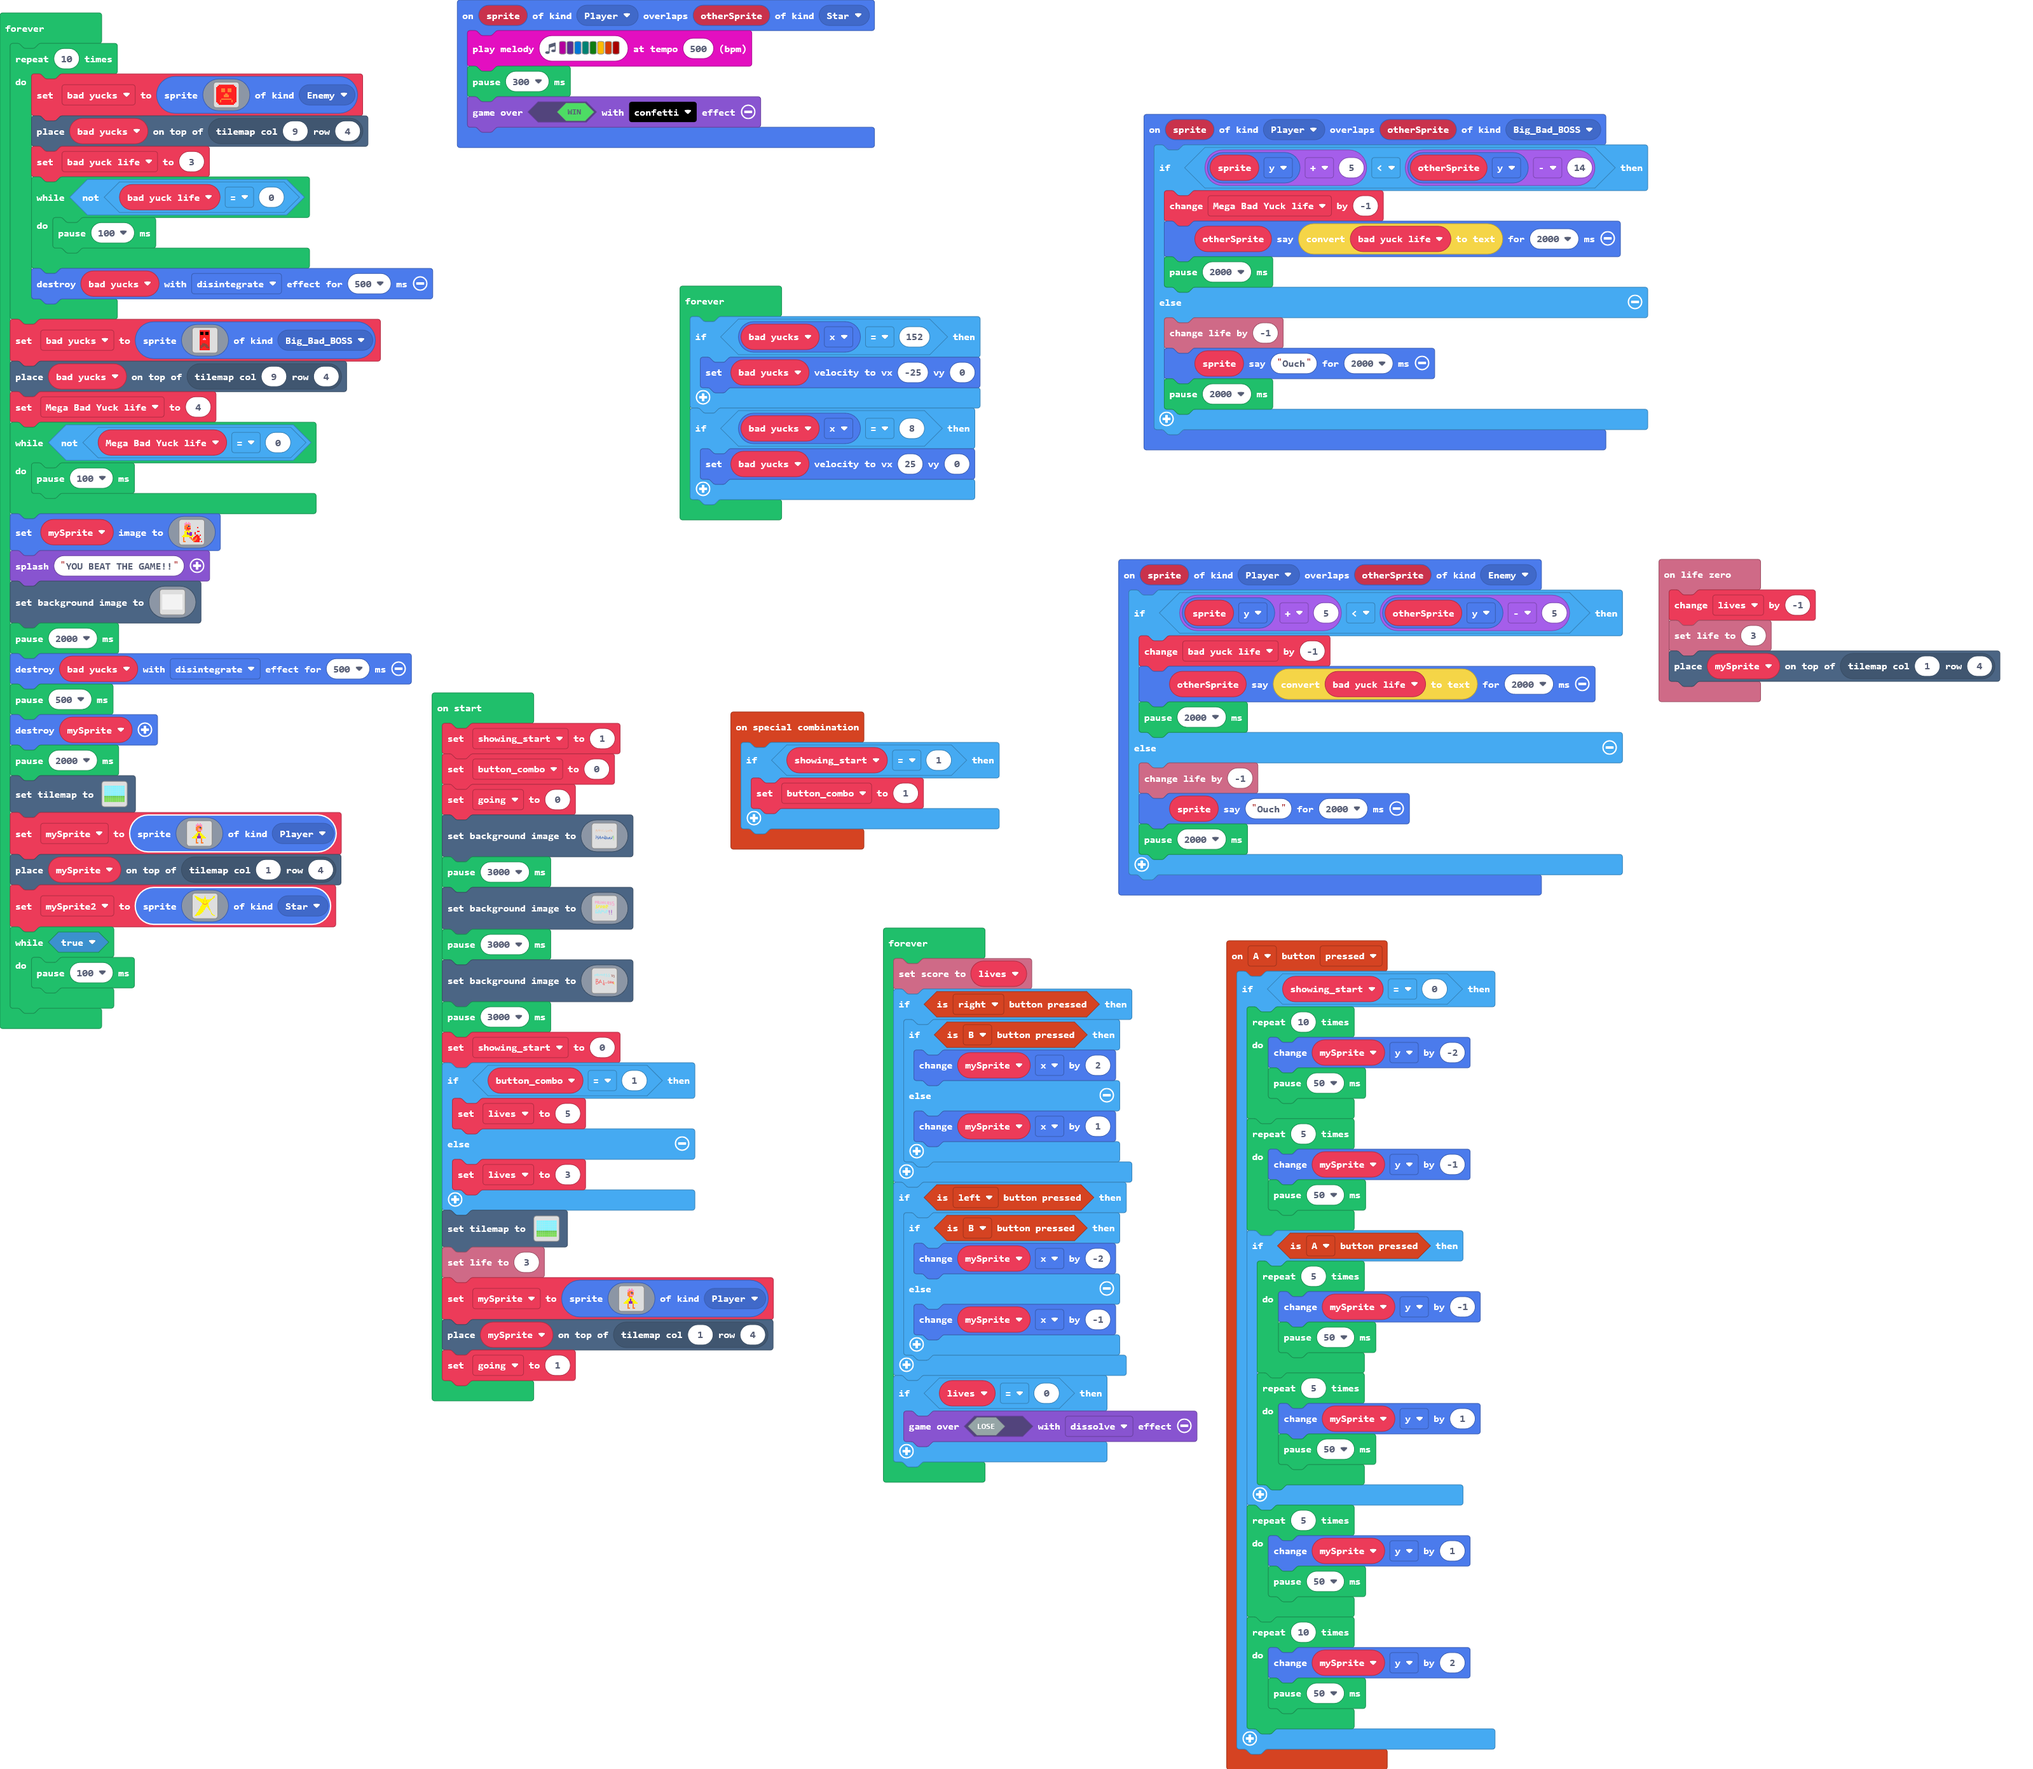
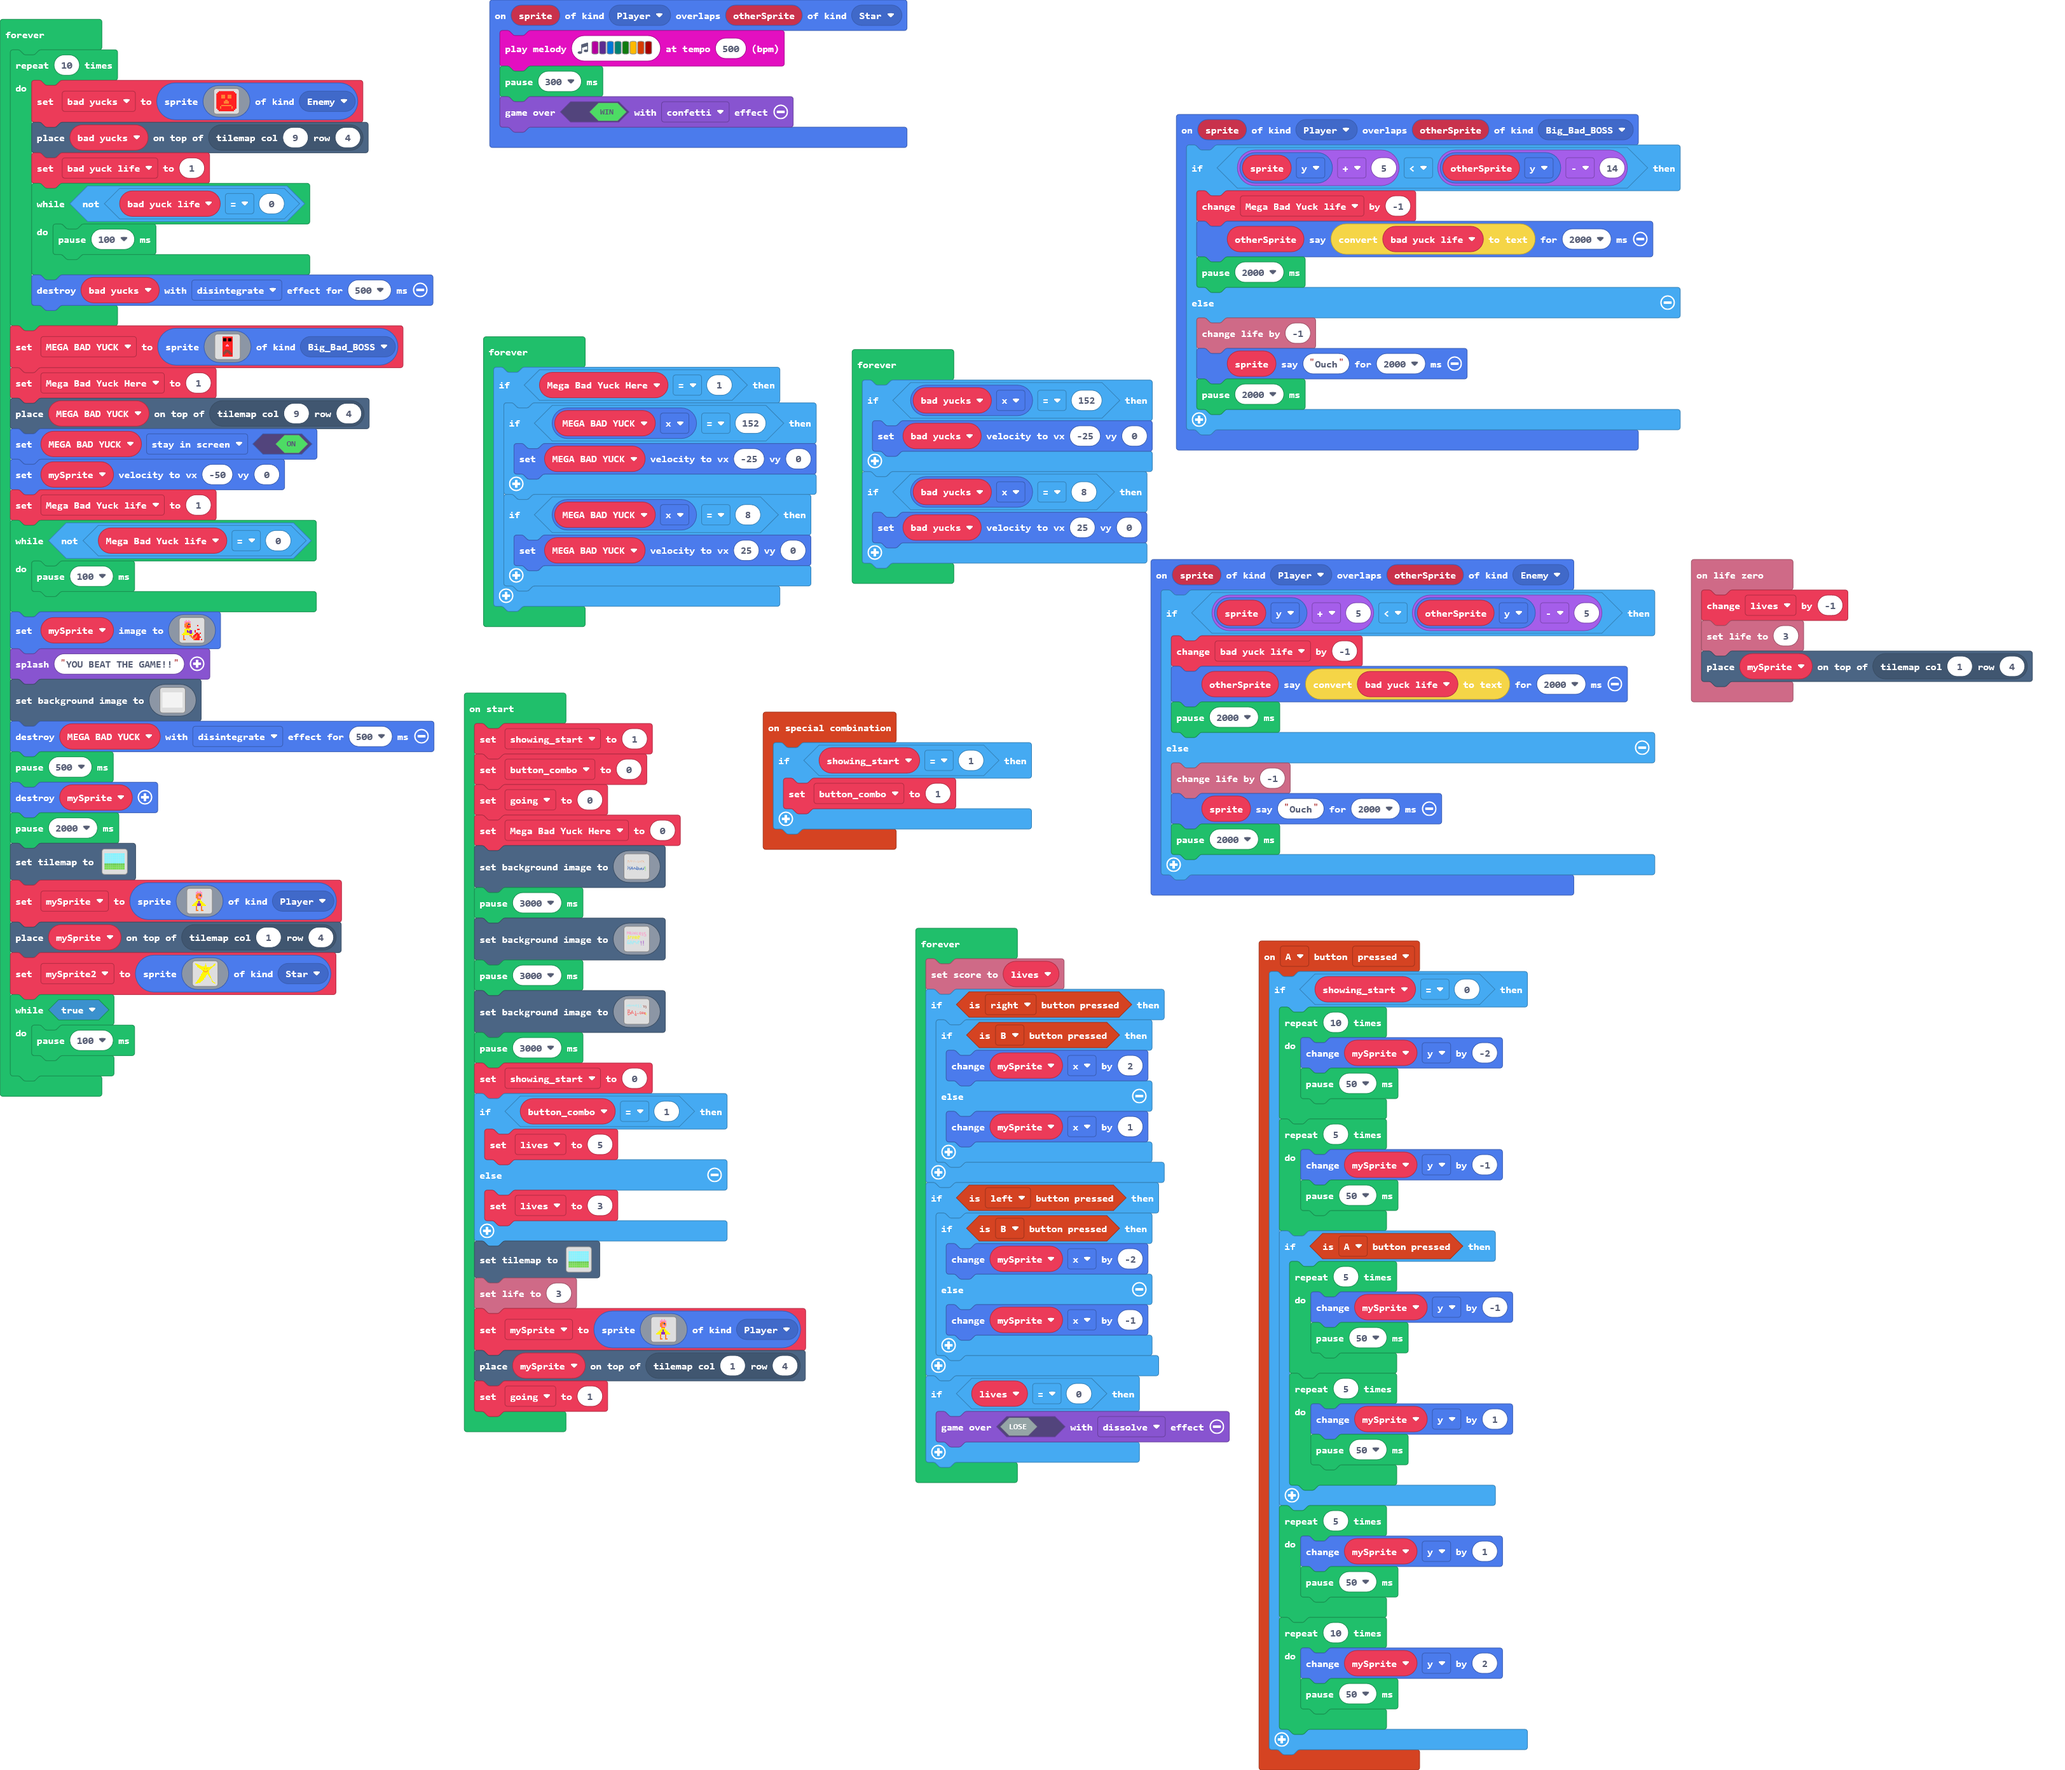
Update main.blocks, main.ts

diff --git a/main.ts b/main.ts
@@ -70,6 +70,7 @@ sprites.onOverlap(SpriteKind.Player, SpriteKind.Enemy, function (sprite, otherSp
     }
 })
 let mySprite2: Sprite = null
+let MEGA_BAD_YUCK: Sprite = null
 let bad_yucks: Sprite = null
 let bad_yuck_life = 0
 let Mega_Bad_Yuck_life = 0
@@ -80,6 +81,7 @@ let showing_start = 0
 showing_start = 1
 button_combo = 0
 let going = 0
+let Mega_Bad_Yuck_Here = 0
 scene.setBackgroundImage(img`
     . . . . . . . . . . . . . . . . . . . . . . . . . . . . . . . . . . . . . . . . . . . . . . . . . . . . . . . . . . . . . . . . . . . . . . . . . . . . . . . . . . . . . . . . . . . . . . . . . . . . . . . . . . . . . . . . . . . . . . . . . . . . . . . . . . . . . . . . . . . . . . . . . . . . . . . . . . . . . . . . 
     . . . . . . . . . . . . . . . . . . . . . . . . . . . . . . . . . . . . . . . . . . . . . . . . . . . . . . . . . . . . . . . . . . . . . . . . . . . . . . . . . . . . . . . . . . . . . . . . . . . . . . . . . . . . . . . . . . . . . . . . . . . . . . . . . . . . . . . . . . . . . . . . . . . . . . . . . . . . . . . . 
@@ -507,13 +509,13 @@ forever(function () {
             . . 2 2 2 2 2 2 2 2 2 2 2 2 . . 
             `, SpriteKind.Enemy)
         tiles.placeOnTile(bad_yucks, tiles.getTileLocation(9, 4))
-        bad_yuck_life = 3
+        bad_yuck_life = 1
         while (!(bad_yuck_life == 0)) {
             pause(100)
         }
         bad_yucks.destroy(effects.disintegrate, 500)
     }
-    bad_yucks = sprites.create(img`
+    MEGA_BAD_YUCK = sprites.create(img`
         2 2 2 2 2 2 2 2 2 2 2 2 2 2 2 2 
         2 2 2 2 2 2 2 2 2 2 2 2 2 2 2 2 
         2 2 2 2 2 2 2 2 2 2 2 2 2 2 2 2 
@@ -547,8 +549,11 @@ forever(function () {
         2 2 2 2 2 2 2 2 2 2 2 2 2 2 2 2 
         2 2 2 2 2 2 2 2 2 2 2 2 2 2 2 2 
         `, SpriteKind.Big_Bad_BOSS)
-    tiles.placeOnTile(bad_yucks, tiles.getTileLocation(9, 4))
-    Mega_Bad_Yuck_life = 4
+    Mega_Bad_Yuck_Here = 1
+    tiles.placeOnTile(MEGA_BAD_YUCK, tiles.getTileLocation(9, 4))
+    MEGA_BAD_YUCK.setFlag(SpriteFlag.StayInScreen, true)
+    mySprite.setVelocity(-50, 0)
+    Mega_Bad_Yuck_life = 1
     while (!(Mega_Bad_Yuck_life == 0)) {
         pause(100)
     }
@@ -693,8 +698,7 @@ forever(function () {
         1 1 1 1 1 1 1 1 1 1 1 1 1 1 1 1 1 1 1 1 1 1 1 1 1 1 1 1 1 1 1 1 1 1 1 1 1 1 1 1 1 1 1 1 1 1 1 1 1 1 1 1 1 1 1 1 1 1 1 1 1 1 1 1 1 1 1 1 1 1 1 1 1 1 1 1 1 1 1 1 1 1 1 1 1 1 1 1 1 1 1 1 1 1 1 1 1 1 1 1 1 1 1 1 1 1 1 1 1 1 1 1 1 1 1 1 1 1 1 1 1 1 1 1 1 1 1 1 1 1 1 1 1 1 1 1 1 1 1 1 1 1 1 1 1 1 1 1 1 1 1 1 1 1 1 1 1 1 1 1 
         1 1 1 1 1 1 1 1 1 1 1 1 1 1 1 1 1 1 1 1 1 1 1 1 1 1 1 1 1 1 1 1 1 1 1 1 1 1 1 1 1 1 1 1 1 1 1 1 1 1 1 1 1 1 1 1 1 1 1 1 1 1 1 1 1 1 1 1 1 1 1 1 1 1 1 1 1 1 1 1 1 1 1 1 1 1 1 1 1 1 1 1 1 1 1 1 1 1 1 1 1 1 1 1 1 1 1 1 1 1 1 1 1 1 1 1 1 1 1 1 1 1 1 1 1 1 1 1 1 1 1 1 1 1 1 1 1 1 1 1 1 1 1 1 1 1 1 1 1 1 1 1 1 1 1 1 1 1 1 1 
         `)
-    pause(2000)
-    bad_yucks.destroy(effects.disintegrate, 500)
+    MEGA_BAD_YUCK.destroy(effects.disintegrate, 500)
     pause(500)
     mySprite.destroy()
     pause(2000)
@@ -763,6 +767,16 @@ forever(function () {
         `, SpriteKind.Star)
     while (true) {
         pause(100)
+    }
+})
+forever(function () {
+    if (Mega_Bad_Yuck_Here == 1) {
+        if (MEGA_BAD_YUCK.x == 152) {
+            MEGA_BAD_YUCK.setVelocity(-25, 0)
+        }
+        if (MEGA_BAD_YUCK.x == 8) {
+            MEGA_BAD_YUCK.setVelocity(25, 0)
+        }
     }
 })
 forever(function () {
